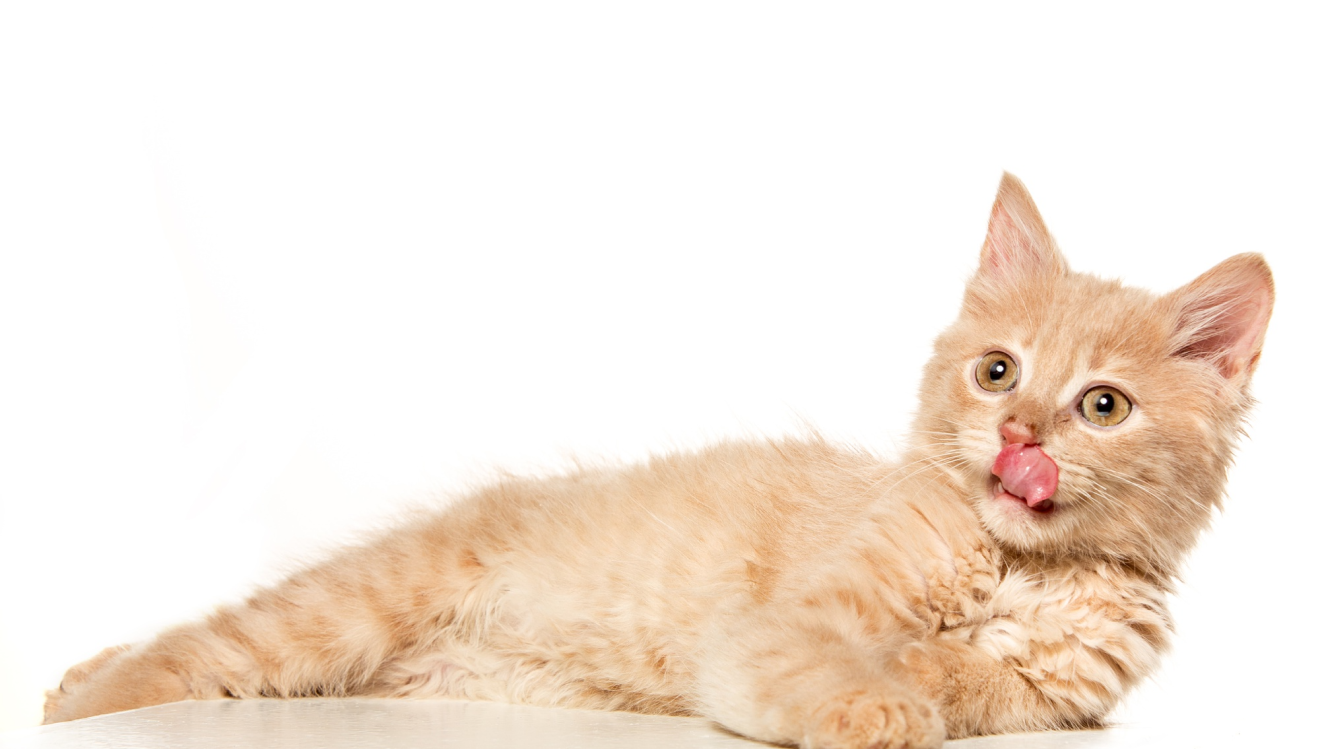
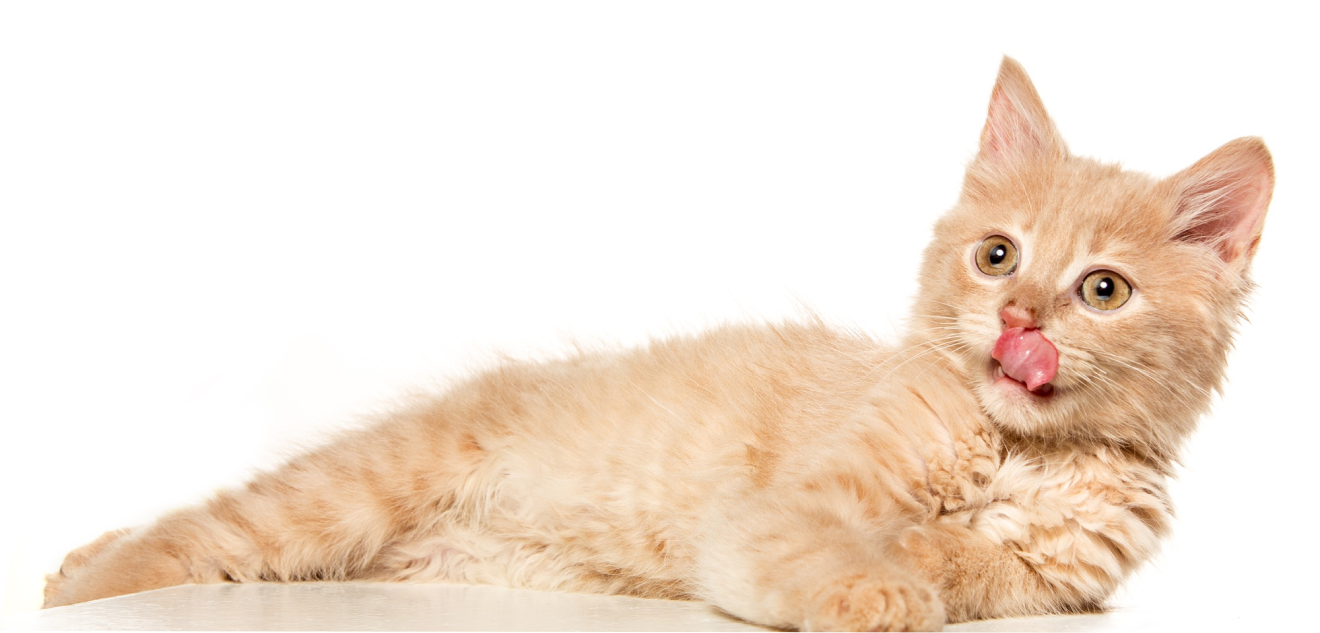
header section done

Changed region(s): [[0.0311, 0.09, 0.9939, 1.0], [0.4659, 0.7504, 0.497, 0.7804]]

diff --git a/index.html b/index.html
@@ -1,12 +1,61 @@
 <!DOCTYPE html>
-<html lang="en">
+<html lang="en" data-theme="light">
 <head>
     <meta charset="UTF-8">
     <meta name="viewport" content="width=device-width, initial-scale=1.0">
+    <script src="https://cdn.tailwindcss.com"></script>
+    <link href="https://cdn.jsdelivr.net/npm/daisyui@4.12.23/dist/full.min.css" rel="stylesheet" type="text/css" />
+    <script src="https://cdn.tailwindcss.com"></script>
+    <link rel="stylesheet" href="https://cdnjs.cloudflare.com/ajax/libs/font-awesome/6.7.2/css/all.min.css" integrity="sha512-Evv84Mr4kqVGRNSgIGL/F/aIDqQb7xQ2vcrdIwxfjThSH8CSR7PBEakCr51Ck+w+/U6swU2Im1vVX0SVk9ABhg==" crossorigin="anonymous" referrerpolicy="no-referrer" />
+    <!-- <script src="tailwind.config.js"></script> -->
     <link rel="stylesheet" href="styles/style.css">
     <title>Pet Shop</title>
 </head>
 <body>
-    
+
+    <header>
+        <div class="navbar bg-base-100 main-font lg:px-32 md:px-16 px-4 bg-[#FFF9F4]">
+            <div class="navbar-start">
+                
+              <img src="assets/logo-header.png" alt="" class="w-6 h-6 mr-[-16px]">  
+              <a class="btn btn-ghost text-xl flex gap-0"><span>Browse</span><span class="text-[#FFDC26]">4</span><span>Pets</span></a>
+
+            </div>
+            <div class="navbar-center hidden lg:flex">
+              <ul class="menu menu-horizontal px-1 text-xl text-[#111111]">
+                <li><a>Find a pet</a></li>
+                <li><a>Breeds</a></li>
+                <li><a>Contact us</a></li>
+              </ul>
+            </div>
+            <div class="navbar-end text-xl flex gap-4">
+              <i class="fa-regular fa-bell hidden lg:block cursor-pointer"></i>
+              <i class="fa-solid fa-magnifying-glass hidden lg:block cursor-pointer"></i>
+              <a class="btn hidden lg:block bg-transparent	border-2 border-[#FFDC26] flex items-center justify-center px-4 py-4">Login</a>
+              <a class="btn hidden lg:block flex items-center justify-center px-4 py-4 bg-[#FFDC26]">Register</a>
+              <i class="fa-solid fa-bars lg:hidden cursor-pointer"></i>
+            </div>
+          </div>
+
+
+    </header>
+
+    <main>
+        <!-- hero section -->
+        <section class="px-4 md:px-16 lg:px-32 py-16 flex-col">
+            <div class="lg:w-6/12">
+                <h1 class="text-3xl lg:text-6xl title-font mb-4">Pamper Your Pet, Because They Deserve the Best</h1>
+                <p class="text-base lg:text-xl main-font mb-6">Discover a world of treats, toys, and essentials handpicked for your furry friends. Shop now and make tails wag with joy!</p>
+                <button class="text-base lg:text-xl main-font bg-[#FFDC26] font-medium p-4 rounded-lg animate-bounce shadow-lg shadow-orange-500/50">Find a pet</button>
+            </div>
+            <div class="lg:mt-[-280px] mt-[-80px] ">
+                <img src="assets/cat-big.png" alt="">
+            </div>
+        </section>
+
+    </main>
+
+
+    <footer></footer>
 </body>
 </html>

diff --git a/styles/style.css b/styles/style.css
@@ -1,0 +1,18 @@
+@import url('https://fonts.googleapis.com/css2?family=ADLaM+Display&family=Fira+Sans:ital,wght@0,100;0,200;0,300;0,400;0,500;0,600;0,700;0,800;0,900;1,100;1,200;1,300;1,400;1,500;1,600;1,700;1,800;1,900&family=Quicksand:wght@300..700&family=Raleway:ital,wght@0,100..900;1,100..900&family=Work+Sans:ital,wght@0,100..900;1,100..900&display=swap');
+
+.title-font {
+    font-family: "ADLaM Display", serif;
+    font-optical-sizing: auto;
+    font-weight: <weight>;
+    font-style: normal;
+  }
+
+  @import url('https://fonts.googleapis.com/css2?family=ADLaM+Display&family=Fira+Sans:ital,wght@0,100;0,200;0,300;0,400;0,500;0,600;0,700;0,800;0,900;1,100;1,200;1,300;1,400;1,500;1,600;1,700;1,800;1,900&family=Quicksand:wght@300..700&family=Raleway:ital,wght@0,100..900;1,100..900&family=Sora:wght@100..800&family=Work+Sans:ital,wght@0,100..900;1,100..900&display=swap');
+
+  .main-font {
+    font-family: "Work Sans", serif;
+    font-optical-sizing: auto;
+    font-weight: <weight>;
+    font-style: normal;
+  }
+  

diff --git a/tailwind.config.js b/tailwind.config.js
@@ -1,0 +1,12 @@
+<script>
+tailwind.config = {
+  theme: {
+    extend: {
+      colors: {
+        clifford: '#da373d',
+      }
+
+    }
+  }
+}
+</script>
